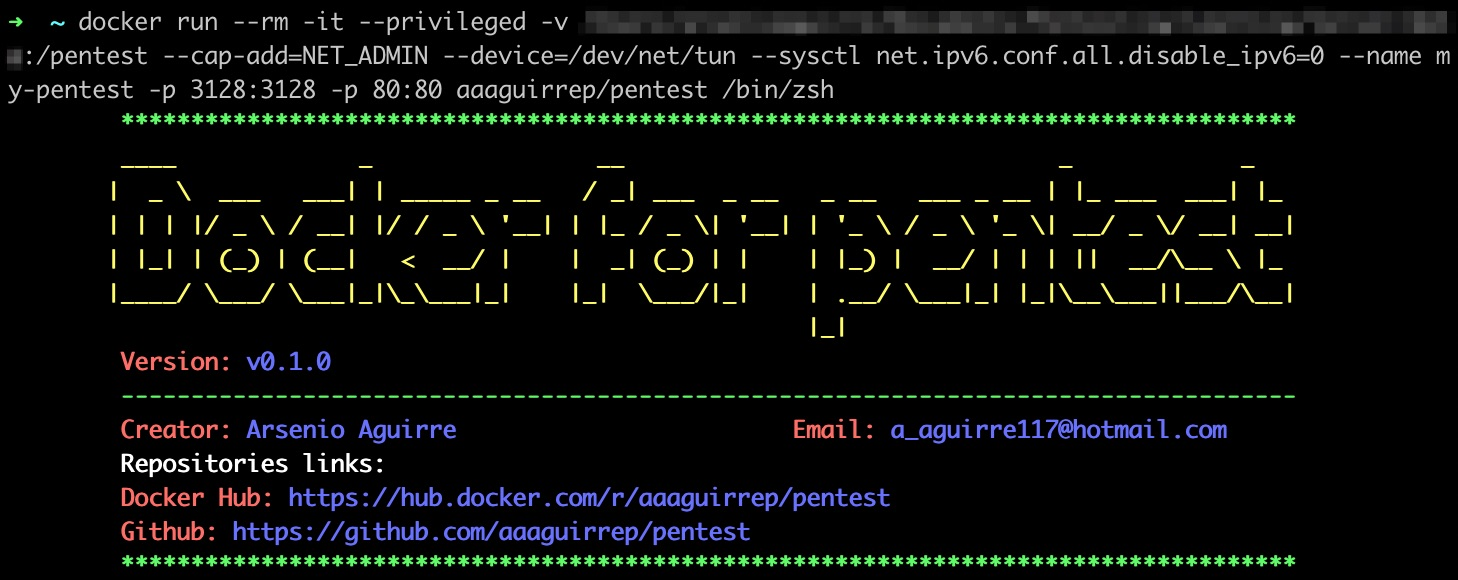
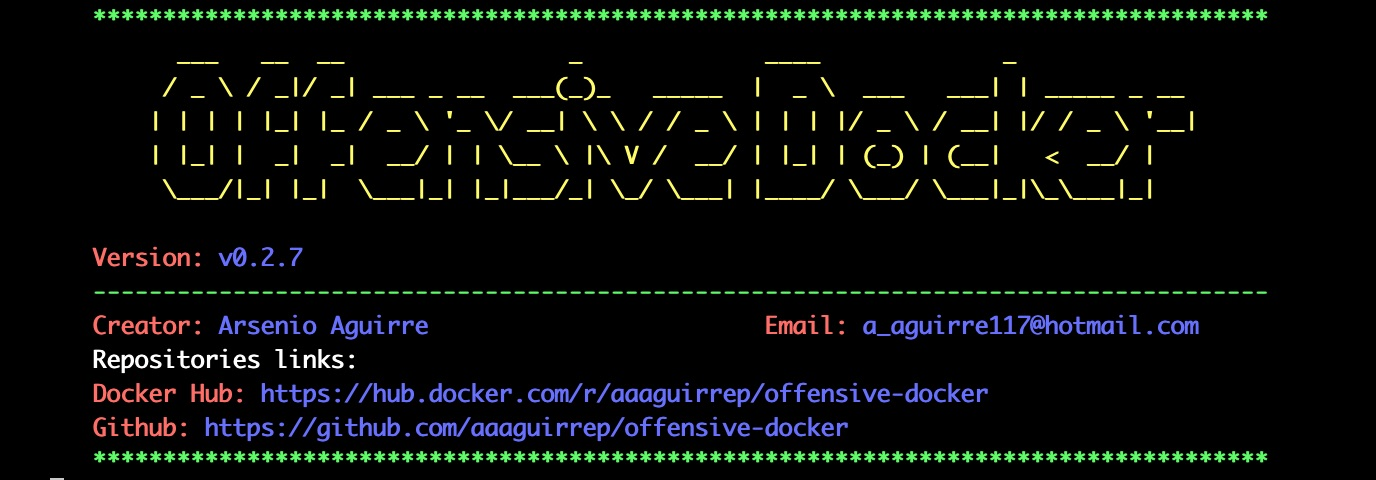
feat: documentation

diff --git a/README.md b/README.md
@@ -1,11 +1,11 @@
-<!-- markdownlint-disable MD033 MD041 -->
+<!-- markdownlint-disable MD033 -->
 
-# Docker pentest advanced configurations
+# Offensive Docker custom configurations
 
 <p align="center">
-  <a href="https://hub.docker.com/r/aaaguirrep/pentest">
+  <a href="https://hub.docker.com/r/aaaguirrep/offensive-docker-custom">
     <img
-      alt="Docker for pentest"
+      alt="Offensive Docker"
       src="img/banner.jpg"
       width="600"
     />
@@ -13,24 +13,24 @@
 </p>
 <br/>
 <p align="center">
-  <a href="https://github.com/aaaguirrep/pentest"><img alt="GitHub code size in bytes" src="https://img.shields.io/github/languages/code-size/aaaguirrep/pentest"></a>
-  <a href="https://github.com/aaaguirrep/pentest"><img alt="GitHub repo size" src="https://img.shields.io/github/repo-size/aaaguirrep/pentest"></a>
-  <a href="https://github.com/aaaguirrep/pentest"><img alt="GitHub last commit" src="https://img.shields.io/github/last-commit/aaaguirrep/pentest"></a>
-    <a href="https://github.com/aaaguirrep/pentest"><img alt="GitHub issues" src="https://img.shields.io/github/issues/aaaguirrep/pentest"></a>
-  <a href="https://hub.docker.com/r/aaaguirrep/pentest"><img alt="Docker Cloud Build Status" src="https://img.shields.io/docker/cloud/build/aaaguirrep/pentest"></a>
-  <a href="https://hub.docker.com/r/aaaguirrep/pentest"><img alt="Docker Automated build" src="https://img.shields.io/docker/automated/aaaguirrep/pentest"></a>
-    <a href="https://hub.docker.com/r/aaaguirrep/pentest"><img alt="Docker Pulls" src="https://img.shields.io/docker/pulls/aaaguirrep/pentest"></a>
-  <a href="https://hub.docker.com/r/aaaguirrep/pentest"><img alt="Docker Image Size (latest by date)" src="https://img.shields.io/docker/image-size/aaaguirrep/pentest"></a>
-    <a href="https://hub.docker.com/r/aaaguirrep/pentest"><img alt="Docker Image Version (latest by date)" src="https://img.shields.io/docker/v/aaaguirrep/pentest"></a>
-    <a href="https://hub.docker.com/r/aaaguirrep/pentest"><img alt="Docker Stars" src="https://img.shields.io/docker/stars/aaaguirrep/pentest"></a>
-  <a href="https://github.com/aaaguirrep/pentest/blob/master/LICENSE"><img alt="GitHub" src="https://img.shields.io/github/license/aaaguirrep/pentest"></a>
+  <a href="https://github.com/aaaguirrep/offensive-docker"><img alt="GitHub code size in bytes" src="https://img.shields.io/github/languages/code-size/aaaguirrep/offensive-docker"></a>
+  <a href="https://github.com/aaaguirrep/offensive-docker"><img alt="GitHub repo size" src="https://img.shields.io/github/repo-size/aaaguirrep/offensive-docker"></a>
+  <a href="https://github.com/aaaguirrep/offensive-docker"><img alt="GitHub last commit" src="https://img.shields.io/github/last-commit/aaaguirrep/offensive-docker"></a>
+    <a href="https://github.com/aaaguirrep/offensive-docker"><img alt="GitHub issues" src="https://img.shields.io/github/issues/aaaguirrep/offensive-docker"></a>
+  <a href="https://hub.docker.com/r/aaaguirrep/offensive-docker"><img alt="Docker Cloud Build Status" src="https://img.shields.io/docker/cloud/build/aaaguirrep/offensive-docker"></a>
+  <a href="https://hub.docker.com/r/aaaguirrep/offensive-docker"><img alt="Docker Automated build" src="https://img.shields.io/docker/automated/aaaguirrep/offensive-docker"></a>
+    <a href="https://hub.docker.com/r/aaaguirrep/offensive-docker"><img alt="Docker Pulls" src="https://img.shields.io/docker/pulls/aaaguirrep/offensive-docker"></a>
+  <a href="https://hub.docker.com/r/aaaguirrep/offensive-docker"><img alt="Docker Image Size (latest by date)" src="https://img.shields.io/docker/image-size/aaaguirrep/offensive-docker"></a>
+    <a href="https://hub.docker.com/r/aaaguirrep/offensive-docker"><img alt="Docker Image Version (latest by date)" src="https://img.shields.io/docker/v/aaaguirrep/offensive-docker"></a>
+    <a href="https://hub.docker.com/r/aaaguirrep/offensive-docker"><img alt="Docker Stars" src="https://img.shields.io/docker/stars/aaaguirrep/offensive-docker"></a>
+  <a href="https://github.com/aaaguirrep/offensive-docker/blob/master/LICENSE"><img alt="GitHub" src="https://img.shields.io/github/license/aaaguirrep/offensive-docker"></a>
 </p>
 
-Dockerfile with advanced configurations for docker for pentest.
+Dockerfile with advanced configurations for Offensive Docker.
 
 ## Features
 
-- Provide the api keys, tokens, etc, for different pentest tools.
+- Provide the api keys, tokens, etc, for different offensive tools.
 
 ## Tools
 
@@ -52,11 +52,11 @@ Use the docker image by the next option:
 
 ### Github repository
 
-    git clone --depth 1 https://github.com/aaaguirrep/docker-pentest-config.git pentest
-    cd pentest
+    git clone --depth 1 https://github.com/aaaguirrep/offensive-docker-custom.git offensive-docker
+    cd offensive-docker
     # Copy and paste the tokens or api keys in the dockerfile and build the docker
-    docker build -t pentest .
-    docker run --rm -it --name my-pentest pentest /bin/zsh
+    docker build -t offensive-docker .
+    docker run --rm -it --name my-offensive-docker offensive-docker /bin/zsh
 
 ### Considerations to run the container
 
@@ -64,15 +64,15 @@ There are differents use cases for use the image and you should know how to run 
 
 1. Use the container to access HTB (Hack the Box) machines by HTB vpn.
 
-        docker run --rm -it --cap-add=NET_ADMIN --device=/dev/net/tun --sysctl net.ipv6.conf.all.disable_ipv6=0 --name my-pentest pentest /bin/zsh
+        docker run --rm -it --cap-add=NET_ADMIN --device=/dev/net/tun --sysctl net.ipv6.conf.all.disable_ipv6=0 --name my-offensive-docker offensive-docker /bin/zsh
 
-2. Share information from your local directory to container directory and save information on your local directory. You should save information under /pentest directory.
+2. Share information from your local directory to container directory and save information on your local directory. You should save information under /offensive directory.
 
-        docker run --rm -it -v /path/to/local/directory:/pentest --name my-pentest pentest /bin/zsh
+        docker run --rm -it -v /path/to/local/directory:/offensive --name my-offensive-docker offensive-docker /bin/zsh
 
 3. Mount directories by umount command.
 
-        docker run --rm -it --privileged --name my-pentest pentest /bin/zsh
+        docker run --rm -it --privileged --name my-offensive-docker offensive-docker /bin/zsh
 
 ## ✅ Environment tested
 
@@ -81,6 +81,8 @@ The image was tested in the following environments:
 - Docker service for Mac: Docker version 19.03.5, build 633a0ea
 
 - Docker service for Linux instance on Google Cloud Platform: Docker version 19.03.6, build 369ce74a3c
+
+- Docker service for Linux droplet on Digital Ocean: Docker version 19.03.6, build 369ce74a3c
 
 ## Contributing
 
